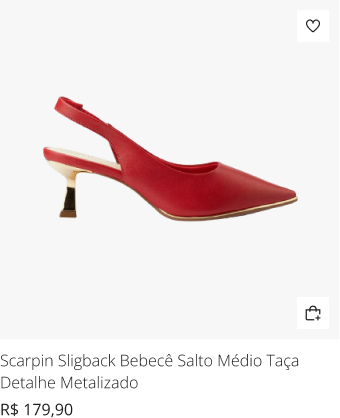
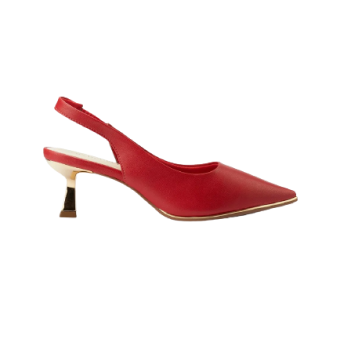
Update product launch section with detailed cards and add size selection modal

diff --git a/index.html b/index.html
@@ -138,26 +138,51 @@
         <img class="banner-grande" src="img/banner-grande.png" alt="Banner Grande">
         <img class="banner-pequeno" src="img/banner-pequeno.png" alt="Banner Pequeno">
     </div>   
-
-    <div class="lancamentos">
-        <h1>Lançamentos</h1>
-        <div class="lancamentos-container">
-            <div class="card-lancamento">
-                <img src="img/Card de Produto - 1.png" alt="Card 1">
-            </div>
-            <div class="card-lancamento">
-                <img src="img/Card de Produto - 2.png" alt="Card 2">
-            </div>
-            <div class="card-lancamento">
-                <img src="img/Card de Produto - 3.png" alt="Card 3">
-            </div>
-            <div class="card-lancamento">
-                <img src="img/Card de Produto - 4.png" alt="Card 4">
-            </div>
-            <div class="card-lancamento">
-                <img src="img/Card de Produto - 5.png" alt="Card 5">
-            </div>
+    <div class="lancamentos-container">
+        <div class="card-lancamento">
+            <img src="img/Card de Produto - 1.png" alt="Card 1">
+            <p>Scarpin Sligback Bebecê Salto Médio Taça Detalhe Metalizado</p>
+            <p>R$ 179,90</p>
+            <a href="#" class="btn-carrinho">
+                <img src="img/adicionaraocarrinho.png" alt="Adicionar ao Carrinho">
+            </a>
         </div>
+        <div class="card-lancamento">
+            <img src="img/Card de Produto - 2.png" alt="Card 2">
+            <p>Coturno Feminino Bebecê Tratorado Detalhe Tachas</p>
+            <p style="font-size: 12px;"><s style="color: gray;">R$ 349,90</s></p><p>R$ 315</p>
+            <a href="#" class="btn-carrinho">
+                <img src="img/adicionaraocarrinho.png" alt="Adicionar ao Carrinho">
+            </a>
+        </div>
+        <div class="card-lancamento">
+            <img src="img/Card de Produto - 3.png" alt="Card 3">
+            <p>Scarpin Bebecê Salto Alto Taça Com Fivela</p>
+            <p>R$ 159,90</p>
+            <a href="#" class="btn-carrinho">
+                <img src="img/adicionaraocarrinho.png" alt="Adicionar ao Carrinho">
+            </a>
+        </div>
+        <div class="card-lancamento">
+            <img src="img/Card de Produto - 4.png" alt="Card 4">
+            <p>Slingback Branco Tiras Bico Fino Couro</p>
+            <p>R$ 379,90</p>
+            <a href="#" class="btn-carrinho">
+                <img src="img/adicionaraocarrinho.png" alt="Adicionar ao Carrinho">
+            </a>
+        </div>
+        <div class="card-lancamento">
+            <img src="img/Card de Produto - 5.png" alt="Card 5">
+            <p>Sandália Braco Blanc Tratorada...</p>
+            <p style="font-size: 12px;"><s style="color: gray;">R$ 459,90</s></p>
+            <p>R$ 319,89</p>
+            <a href="#" class="btn-carrinho">
+                <img src="img/adicionaraocarrinho.png" alt="Adicionar ao Carrinho">
+            </a>
+        </div>
+    </div>
+    
+          
     </div>    
 
     <div class="conheca-mais">
@@ -185,6 +210,21 @@
                     Esta mule é perfeita para você. ✨</p>
                 <a href="https://www.exemplo.com" class="saiba-mais">Saiba mais!</a>
             </div>
+        </div>
+    </div>
+
+    <!-- Modal para selecionar tamanho -->
+    <div id="modal-tamanho" class="modal hidden">
+        <div class="modal-content">
+            <h2>Selecione o tamanho do calçado</h2>
+            <div class="tamanhos">
+                <button class="tamanho" data-tamanho="38">38</button>
+                <button class="tamanho" data-tamanho="39">39</button>
+                <button class="tamanho" data-tamanho="40">40</button>
+                <button class="tamanho" data-tamanho="41">41</button>
+            </div>
+            <button id="adicionar-carrinho">Adicionar ao Carrinho</button>
+            <button id="fechar-modal">Cancelar</button>
         </div>
     </div>
 

diff --git a/style.css b/style.css
@@ -241,11 +241,13 @@ header ul li a {
     content: '';
     position: absolute;
     left: 0;
+    bottom: -5px;
     width: 0;
-    height: 1px; /* Espessura */
+    height: 1px;
     background-color: #000000;
     transition: width 0.9s ease;
 }
+
 
 /* Hover na linha */
 .logo ul li a:hover::after {
@@ -453,7 +455,6 @@ header ul li a {
 }
 
 /* lançamentos */
-
 .lancamentos {
     background-color: #ffffff;
     padding-top: 15px;
@@ -469,6 +470,10 @@ header ul li a {
     justify-content: flex-start;
 }
 
+.lancamentos-container p {
+    font-size: 16px;
+}
+
 .lancamentos h1 {
     font-size: 28px;
     margin-left: 80px;
@@ -479,11 +484,32 @@ header ul li a {
     width: 330px;
     padding: 16px;
     box-sizing: border-box;
+    position: relative;
 }
 
 .card-lancamento img {
     width: 100%;
     height: auto;
+}
+
+.btn-carrinho {
+    position: absolute;
+    bottom: 10px; /* Distância da parte inferior do card */
+    right: 10px; /* Distância da lateral direita do card */
+    display: flex; /* Caso queira centralizar o conteúdo dentro */
+    align-items: center;
+    justify-content: center;
+}
+
+.btn-carrinho img {
+    width: 32px;
+    height: auto;
+    cursor: pointer;
+    transition: transform 0.2s ease; /* Efeito ao passar o mouse */
+}
+
+.btn-carrinho img:hover {
+    transform: scale(1.1); /* Aumenta levemente no hover */
 }
 
 /* Conheça mais */
@@ -551,6 +577,9 @@ header ul li a {
     text-decoration: underline;
 }
 
+/*carrinho*/
+
+
 /* newsletter */
 
 .newsletter {
@@ -595,7 +624,7 @@ header ul li a {
 
 .footer {
     display: flex;
-    justify-content: space-between; /* Logo na esquerda, elementos restantes centralizados */
+    justify-content: space-between;
     align-items: center;
     background-color: #B11B26;
     color: white;
@@ -605,7 +634,7 @@ header ul li a {
 
 #logo-footer {
     color: #FFE9DC;
-    margin-right: 20px; /* Espaçamento para separar do restante */
+    margin-right: 20px;
 }
 
 .footer-container {
